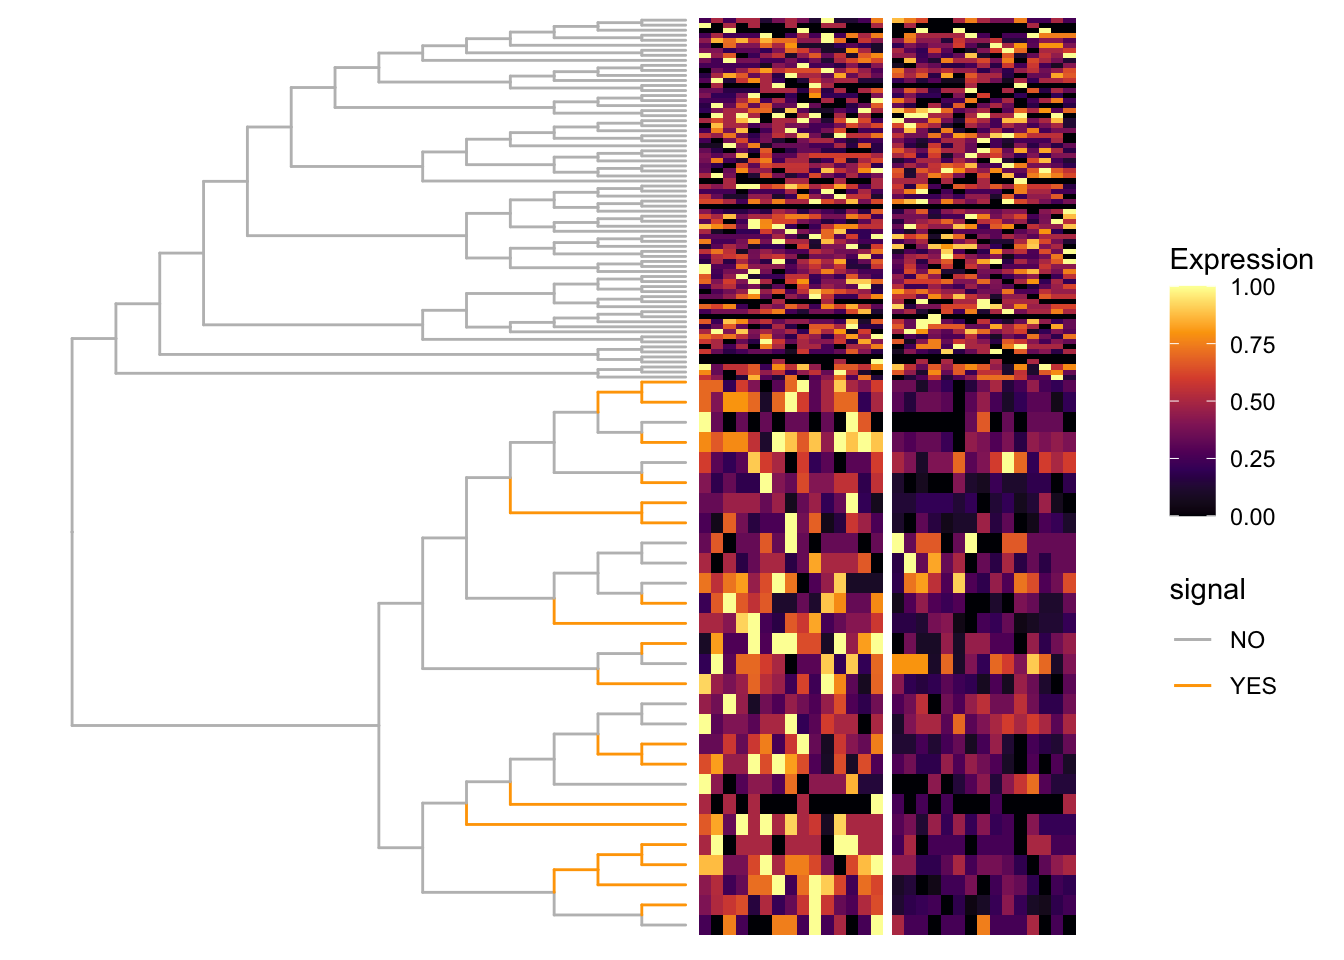
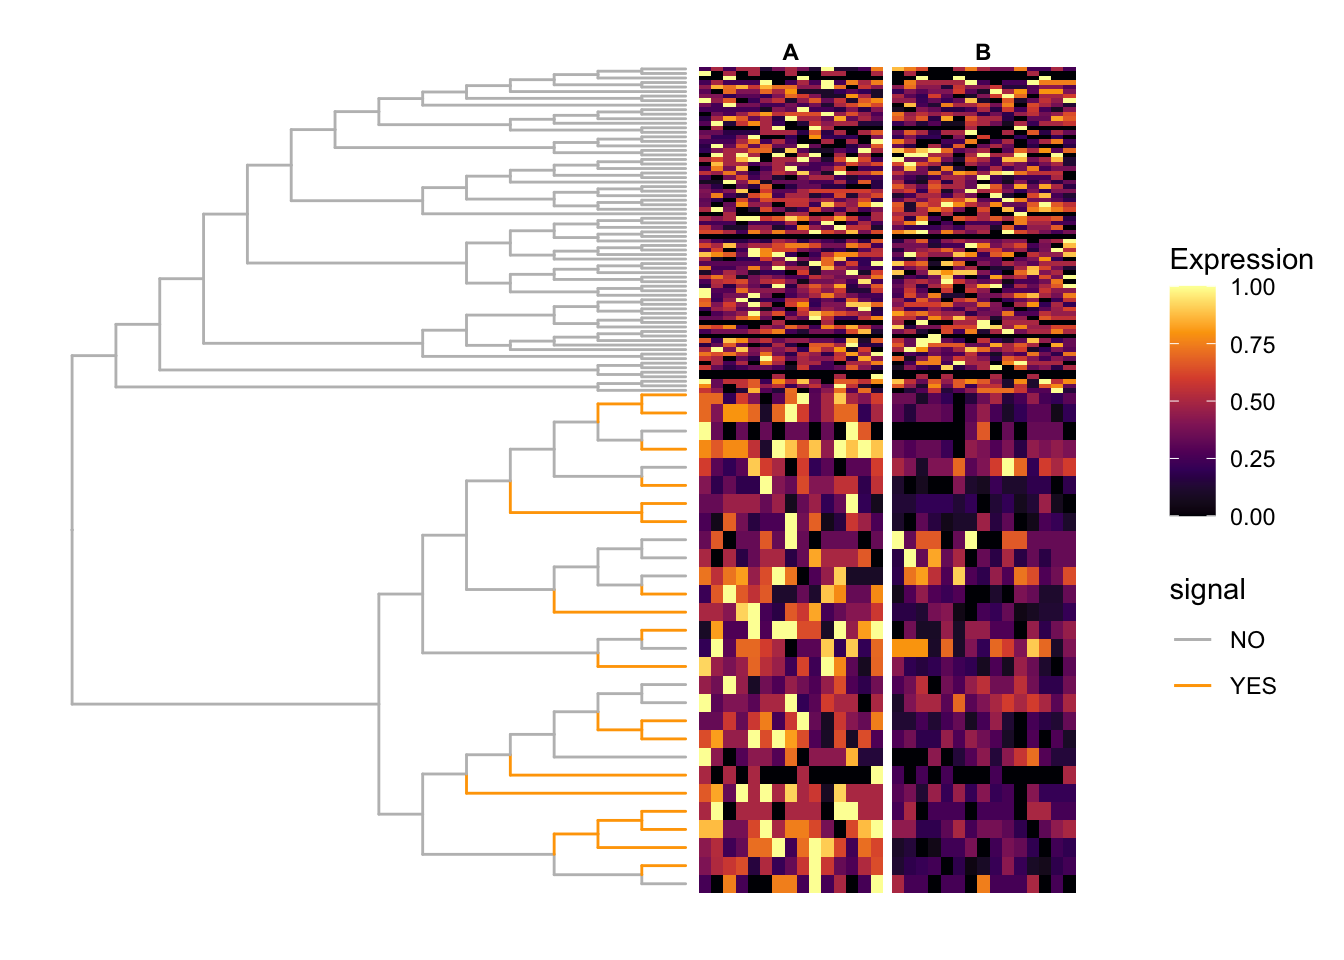
add group labels in heatmap

diff --git a/docs/toy_signal.html b/docs/toy_signal.html
@@ -414,7 +414,7 @@ div.section {
 <div class="tab-content">
 <div id="summary" class="tab-pane fade in active">
 <p>
-<strong>Last updated:</strong> 2020-05-18
+<strong>Last updated:</strong> 2020-06-06
 </p>
 <p>
 <strong>Checks:</strong> <span class="glyphicon glyphicon-ok text-success" aria-hidden="true"></span> 6 <span class="glyphicon glyphicon-exclamation-sign text-danger" aria-hidden="true"></span> 1
@@ -505,10 +505,10 @@ This reproducible <a href="http://rmarkdown.rstudio.com">R Markdown</a> analysis
 <div class="panel panel-default">
 <div class="panel-heading">
 <p class="panel-title">
-<a data-toggle="collapse" data-parent="#workflowr-checks" href="#strongRepositoryversionstrongahrefhttpsgithubcomfionarhuangtreeclimbRtoyexampletreea5839be9359448316918752c6e1b6f918ac003e1targetblanka5839bea"> <span class="glyphicon glyphicon-ok text-success" aria-hidden="true"></span> <strong>Repository version:</strong> <a href="https://github.com/fionarhuang/treeclimbR_toy_example/tree/a5839be9359448316918752c6e1b6f918ac003e1" target="_blank">a5839be</a> </a>
+<a data-toggle="collapse" data-parent="#workflowr-checks" href="#strongRepositoryversionstrongahrefhttpsgithubcomfionarhuangtreeclimbRtoyexampletree32976377e39ed8957add6c18201fa6af7d411f1ftargetblank3297637a"> <span class="glyphicon glyphicon-ok text-success" aria-hidden="true"></span> <strong>Repository version:</strong> <a href="https://github.com/fionarhuang/treeclimbR_toy_example/tree/32976377e39ed8957add6c18201fa6af7d411f1f" target="_blank">3297637</a> </a>
 </p>
 </div>
[2 lines of base64/hex data omitted]
 <div class="panel-body">
 <p>
 Great! You are using Git for version control. Tracking code development and connecting the code version to the results is critical for reproducibility. The version displayed above was the version of the Git repository at the time these results were generated. <br><br> Note that you need to be careful to ensure that all relevant files for the analysis have been committed to Git prior to generating the results (you can use <code>wflow_publish</code> or <code>wflow_git_commit</code>). workflowr only checks the R Markdown file, but you know if there are other scripts or data files that it depends on. Below is the status of the Git repository when the results were generated:
@@ -520,7 +520,6 @@ Ignored files:
     Ignored:    .Rproj.user/
 
 Unstaged changes:
-    Modified:   analysis/toy_negative.Rmd
     Modified:   analysis/toy_signal.Rmd
 
 </code></pre>
@@ -560,6 +559,40 @@ Message
 </tr>
 </thead>
 <tbody>
+<tr>
+<td>
+Rmd
+</td>
+<td>
+<a href="https://github.com/fionarhuang/treeclimbR_toy_example/blob/32976377e39ed8957add6c18201fa6af7d411f1f/analysis/toy_signal.Rmd" target="_blank">3297637</a>
+</td>
+<td>
+fionarhuang
+</td>
+<td>
+2020-05-18
+</td>
+<td>
+fix a bug: animations disappear
+</td>
+</tr>
+<tr>
+<td>
+html
+</td>
+<td>
+<a href="https://rawcdn.githack.com/fionarhuang/treeclimbR_toy_example/32976377e39ed8957add6c18201fa6af7d411f1f/docs/toy_signal.html" target="_blank">3297637</a>
+</td>
+<td>
+fionarhuang
+</td>
+<td>
+2020-05-18
+</td>
+<td>
+fix a bug: animations disappear
+</td>
+</tr>
 <tr>
 <td>
 html
@@ -793,9 +826,16 @@ colnames(scale_count) &lt;- colnames(count)
 # fig: tree + heatmap
 vv &lt;- gsub(pattern = &quot;_.*&quot;, &quot;&quot;, colnames(count))
 names(vv) &lt;- colnames(scale_count)
-fig &lt;- TreeHeatmap(tree = tr, tree_fig = fig_1, hm_data = scale_count,
-                   column_split = vv, rel_width = 0.6, tree_hm_gap = 0.3) +
-    scale_fill_viridis_c(option = &quot;B&quot;)
+anno_c &lt;- vv
+names(anno_c) &lt;- vv
+fig &lt;- TreeHeatmap(tree = tr, tree_fig = fig_1, 
+                   hm_data = scale_count,
+                   column_split = vv, rel_width = 0.6,
+                   tree_hm_gap = 0.3,
+                   column_split_label = anno_c) +
+    scale_fill_viridis_c(option = &quot;B&quot;) +
+  scale_y_continuous(expand = c(0, 10))
+  
 fig</code></pre>
 <p><img src="figure/toy_signal.Rmd/unnamed-chunk-8-1.png" width="672" style="display: block; margin: auto;" /></p>
 <p>

diff --git a/docs/index.html b/docs/index.html
@@ -334,7 +334,7 @@ div.section {
 <div class="tab-content">
 <div id="summary" class="tab-pane fade in active">
 <p>
-<strong>Last updated:</strong> 2020-04-23
+<strong>Last updated:</strong> 2020-06-06
 </p>
 <p>
 <strong>Checks:</strong> <span class="glyphicon glyphicon-ok text-success" aria-hidden="true"></span> 2 <span class="glyphicon glyphicon-exclamation-sign text-danger" aria-hidden="true"></span> 0
@@ -365,10 +365,10 @@ This reproducible <a href="http://rmarkdown.rstudio.com">R Markdown</a> analysis
 <div class="panel panel-default">
 <div class="panel-heading">
 <p class="panel-title">
-<a data-toggle="collapse" data-parent="#workflowr-checks" href="#strongRepositoryversionstrongahrefhttpsgithubcomfionarhuangtreeclimbRtoyexampletree3836f201b34379b2e03fc0b3efdc76bc22452a18targetblank3836f20a"> <span class="glyphicon glyphicon-ok text-success" aria-hidden="true"></span> <strong>Repository version:</strong> <a href="https://github.com/fionarhuang/treeclimbR_toy_example/tree/3836f201b34379b2e03fc0b3efdc76bc22452a18" target="_blank">3836f20</a> </a>
+<a data-toggle="collapse" data-parent="#workflowr-checks" href="#strongRepositoryversionstrongahrefhttpsgithubcomfionarhuangtreeclimbRtoyexampletree32976377e39ed8957add6c18201fa6af7d411f1ftargetblank3297637a"> <span class="glyphicon glyphicon-ok text-success" aria-hidden="true"></span> <strong>Repository version:</strong> <a href="https://github.com/fionarhuang/treeclimbR_toy_example/tree/32976377e39ed8957add6c18201fa6af7d411f1f" target="_blank">3297637</a> </a>
 </p>
 </div>
[2 lines of base64/hex data omitted]
 <div class="panel-body">
 <p>
 Great! You are using Git for version control. Tracking code development and connecting the code version to the results is critical for reproducibility. The version displayed above was the version of the Git repository at the time these results were generated. <br><br> Note that you need to be careful to ensure that all relevant files for the analysis have been committed to Git prior to generating the results (you can use <code>wflow_publish</code> or <code>wflow_git_commit</code>). workflowr only checks the R Markdown file, but you know if there are other scripts or data files that it depends on. Below is the status of the Git repository when the results were generated:
@@ -378,6 +378,10 @@ Ignored files:
     Ignored:    .DS_Store
     Ignored:    .Rhistory
     Ignored:    .Rproj.user/
+
+Unstaged changes:
+    Modified:   analysis/toy_signal.Rmd
+    Modified:   output/signal_cands.gif
 
 </code></pre>
 <p>
@@ -416,6 +420,23 @@ Message
 </tr>
 </thead>
 <tbody>
+<tr>
+<td>
+html
+</td>
+<td>
+<a href="https://rawcdn.githack.com/fionarhuang/treeclimbR_toy_example/989b4a398c18cdd5d2a3cb0d083baa7b26337026/docs/index.html" target="_blank">989b4a3</a>
+</td>
+<td>
+fionarhuang
+</td>
+<td>
+2020-04-23
+</td>
+<td>
+Build site.
+</td>
+</tr>
 <tr>
 <td>
 Rmd
